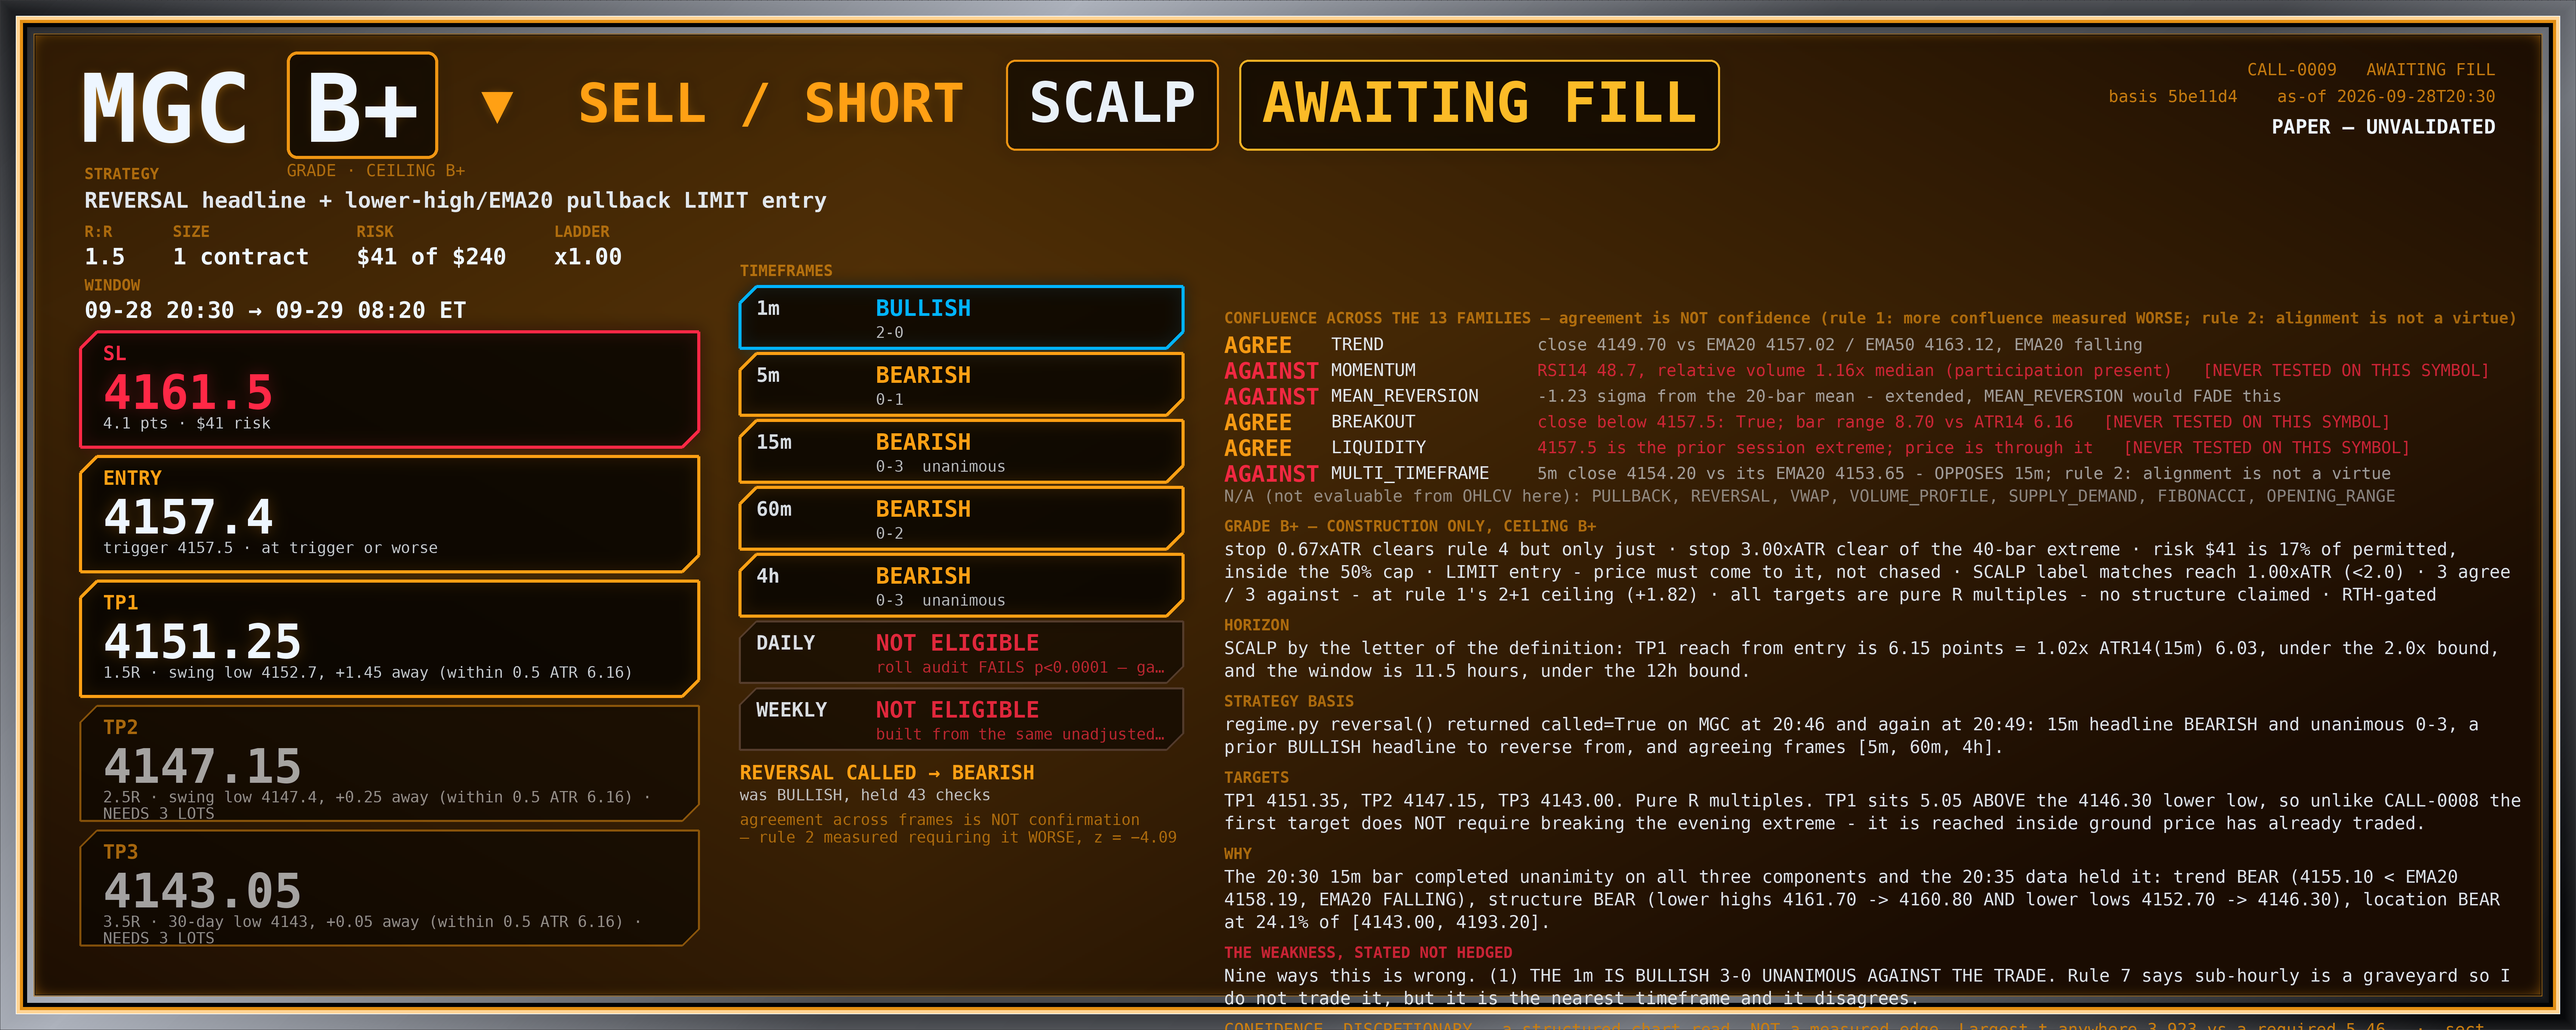
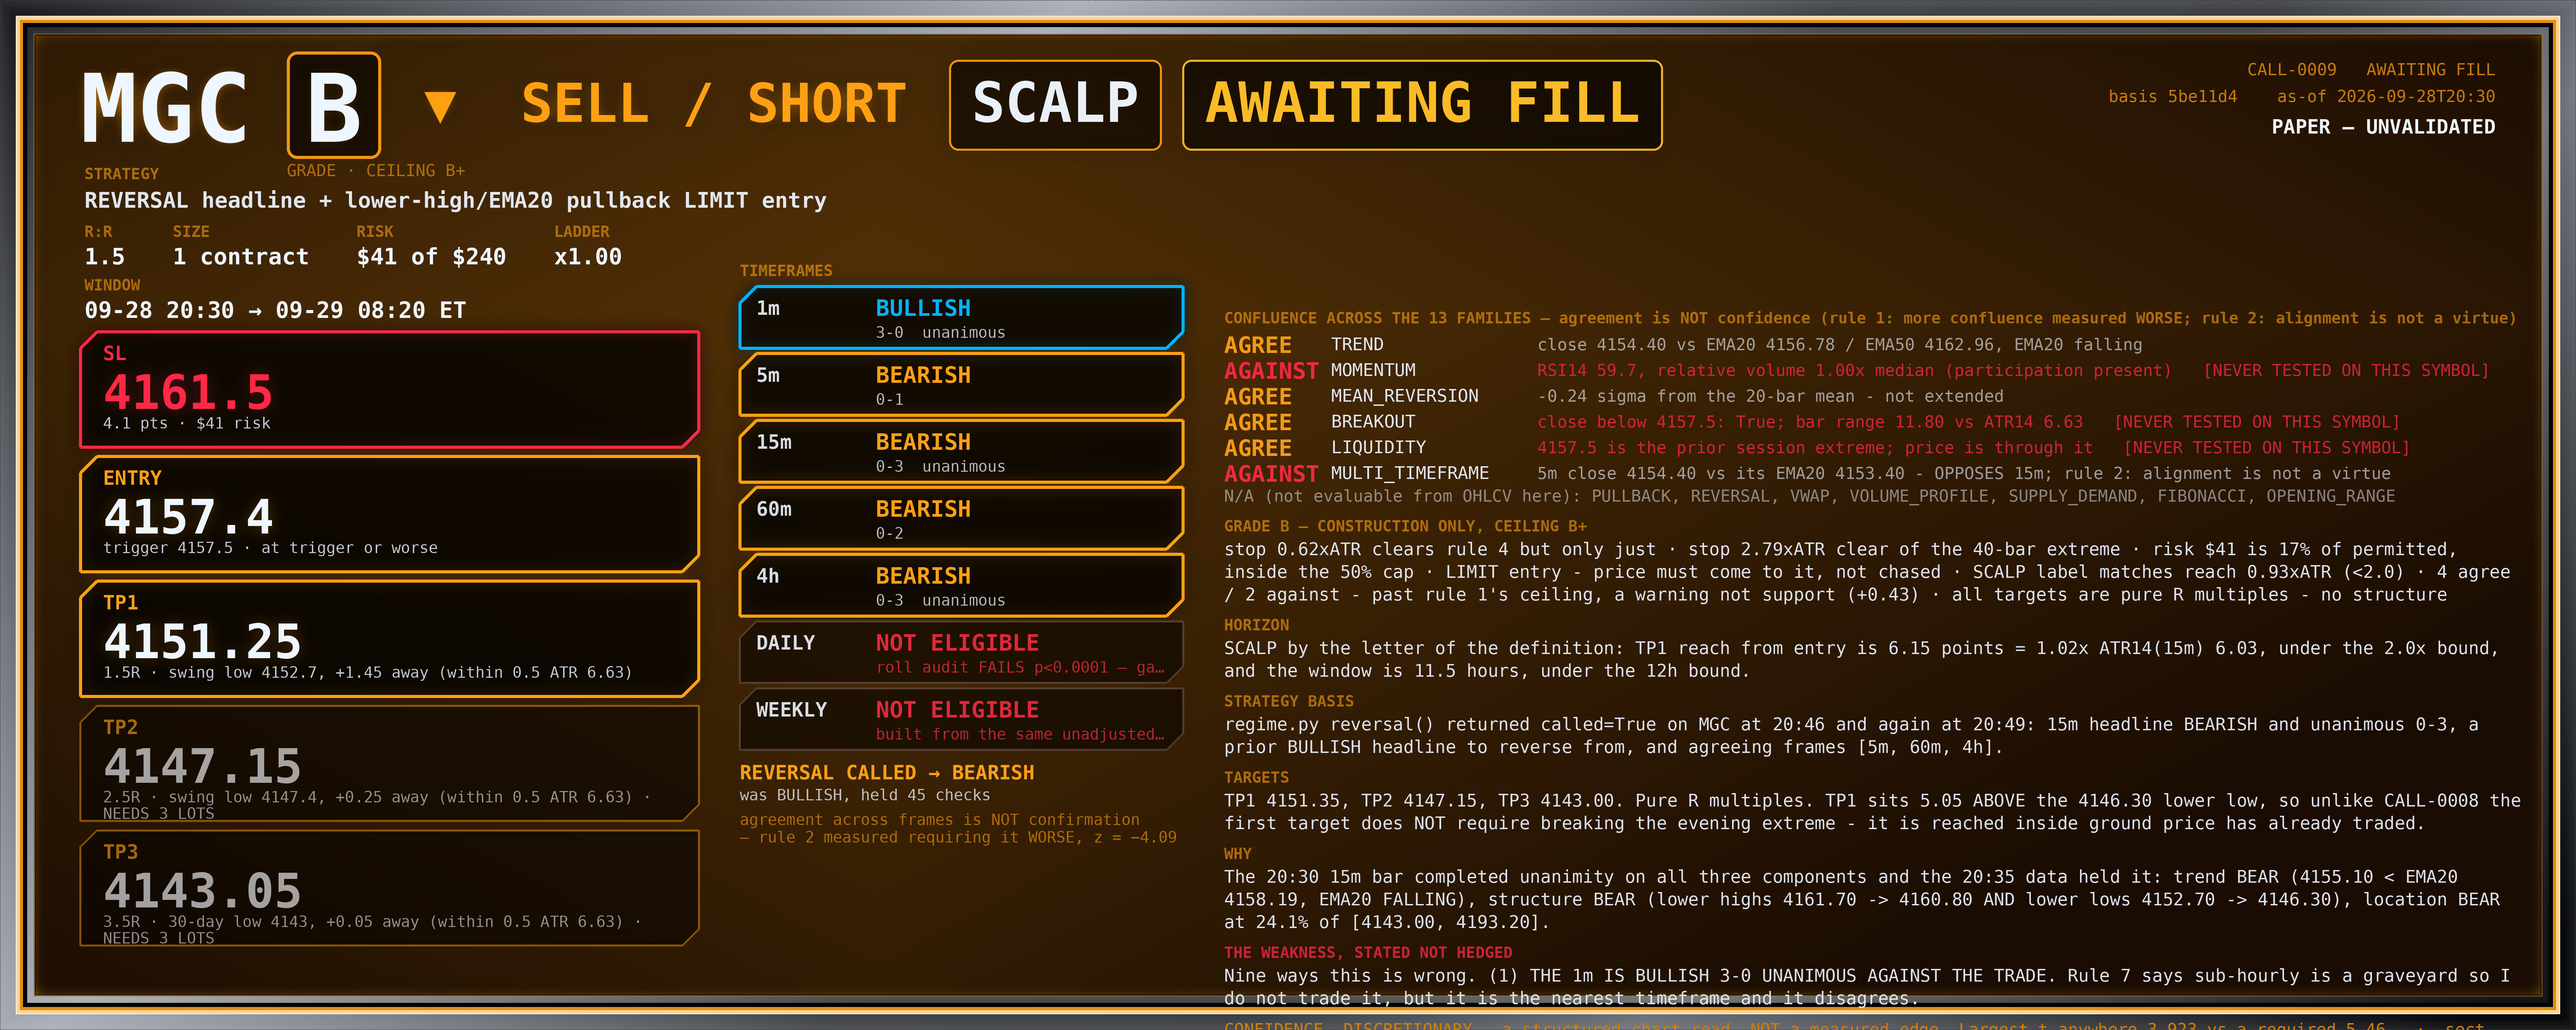
CALL: 21:16 — MNQ unanimity fails on first new bar, confirming N231; CALL-0010 stands
Claude-Session: https://claude.ai/code/session_01EE6PFk7fGa2tM4KP6dpfWD

diff --git a/workspace/paper/CALL/NOTES.md b/workspace/paper/CALL/NOTES.md
@@ -8571,3 +8571,42 @@ me making. But it is the single strongest argument against the trade and it belo
 **Book posture.** Two PENDING shorts, $93.00 of the $120 discretionary cap, $27.00 spare. MGC and MNQ
 are different markets, so per CALLOUT.md these are two independent bets in the same direction — not a
 hedge and not one correlated position. Both filling and both stopping costs $93.00.
+
+# N232 — N231's prediction was confirmed on the very next bar: MNQ's unanimity failed the moment fresh data arrived
+
+Four minutes after registering CALL-0010, the first genuinely new 15m bar published (`21:00`, +1 new)
+and **MNQ's 15m unanimity failed immediately** — location reverted from BEAR 37.6% to MIXED 42.1%,
+tally 0-3 → 0-2, `regime.py` prints `no reversal call`.
+
+This is the cleanest possible demonstration of the defect N231 described, and it arrived faster than
+the note did. The sequence, stated plainly because it indicts the plan I just wrote:
+
+| check | 15m bar | new 15m? | MNQ 15m | gate |
+|---|---|---|---|---|
+| 21:10 | 20:45 | +0 new, 2 revised | 0-3 unanimous | CALLED — declined, first bar |
+| 21:12 | 20:45 | **no 15m activity at all** | 0-3 unanimous | CALLED — **CALL-0010 registered** |
+| 21:16 | **21:00** | **+1 new** | **0-2** | no call |
+
+So the two checks that satisfied my persistence standard saw one bar, and the first check that saw a
+*second* bar broke the condition. The standard did not measure what it was written to measure, exactly
+as N231 said, and the plan it authorised is the evidence.
+
+**I am not killing CALL-0010.** Whether a PENDING plan should die when its originating gate lapses is
+an open question already on the deferred list, and it is not one I get to settle mid-flight in the
+direction that erases a plan I am uncomfortable with. CALL-0007 filled on a gate that had lapsed 20
+minutes earlier and paid +1.422R; inventing a post-hoc void rule now would have killed that trade and
+would be N8 violated in substance if not in letter. The plan stands as written, with its weakness (1)
+now demonstrated rather than hypothetical.
+
+**What this does change: the repair is no longer optional and its priority is now above `swings()`.**
+Both halves are needed together — record the tally, AND require persistence across a new or revised
+15m bar. Tonight produced a registered plan that neither half would have permitted, which is the
+strongest argument for the fix and simultaneously the reason I will not install it while that plan is
+live.
+
+**Thesis state, both plans, reported without flattering either.** CALL-0009: fav 7.30, adv 4.50,
+"DIRECTION RIGHT, TARGET DISTANCE COVERED — trigger was the problem", limit 3.10 away. CALL-0010:
+adverse 36.00 from its reference against favourable 6.75, **"DIRECTION WRONG"** — MNQ has gone up
+16.50 from the bar the call was built on. For an unfilled sell limit sitting above the market that
+upward move is progress toward a fill, but it is also the directional read going against me, and both
+of those are true at once.
